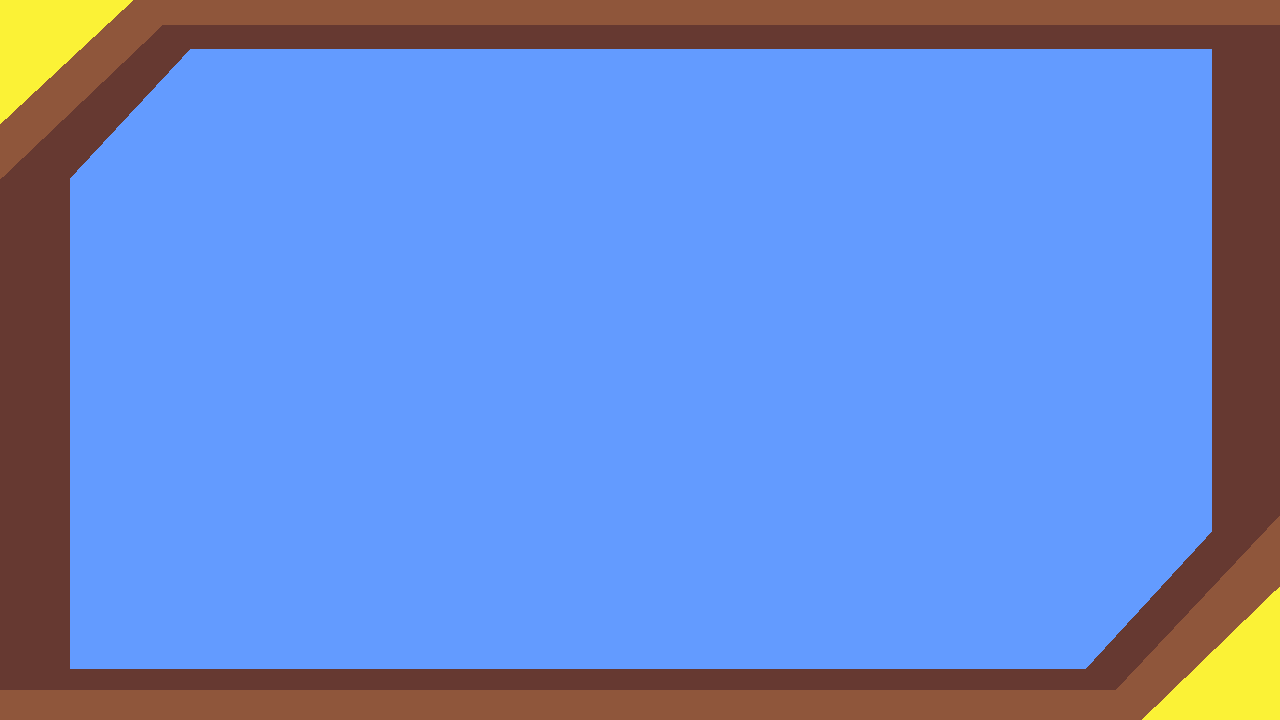
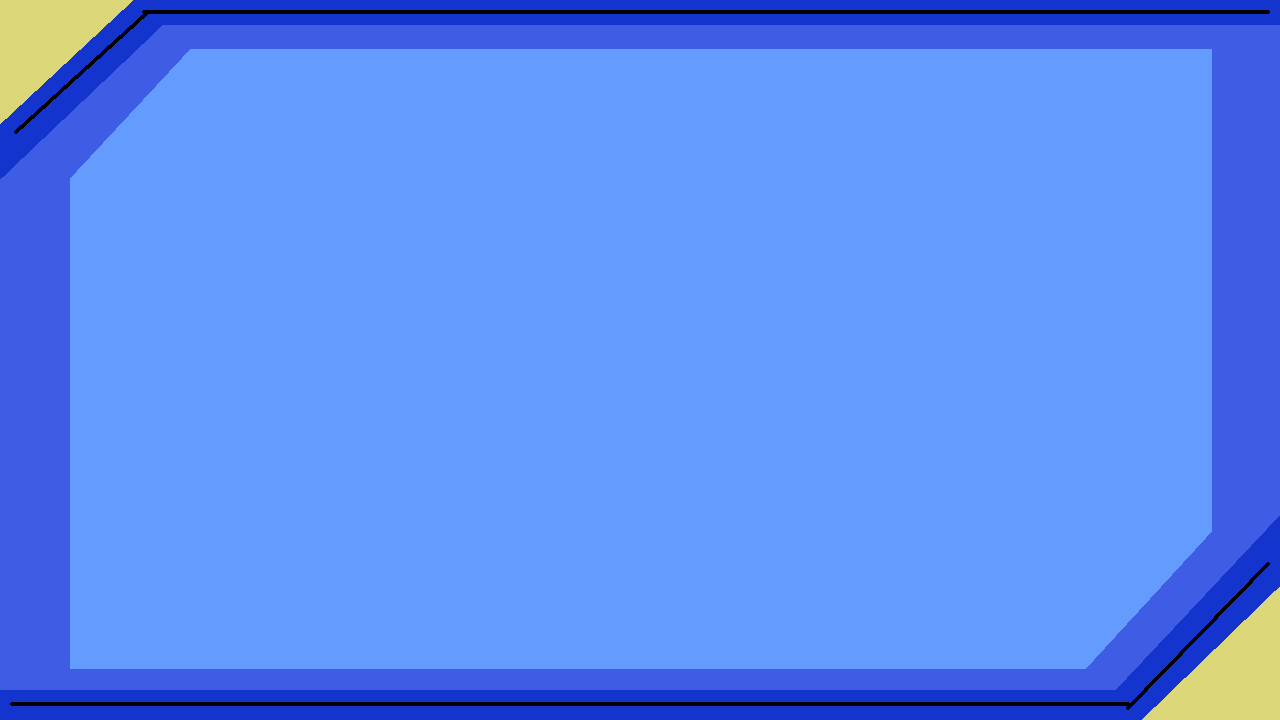
Resume: new screen with info for players Screen: new settings & menu screens

Changed region(s): [[0.0, 0.0, 1.0, 1.0]]

diff --git a/menu.py b/menu.py
@@ -3,10 +3,8 @@ import sys
 from main import start_game
 
 pygame.init()
-
 SCREEN = pygame.display.set_mode((1280, 720))
 pygame.display.set_caption("Menu")
-
 BG = pygame.image.load("data/Background.png")   # Add menu screen
 
 
@@ -51,30 +49,58 @@ def Levels():
     pass
 
 
-def Play():
-    start_game()
-
-
-def Setting():
+def Resume():
+    RM = pygame.image.load("data/Resume.png")
     while True:
-        OPTIONS_MOUSE_POS = pygame.mouse.get_pos()
-        SCREEN.fill("black")
-        OPTIONS_TEXT = get_font(45).render("This is the SETTINGS screen.", True, "White")
-        OPTIONS_RECT = OPTIONS_TEXT.get_rect(center=(640, 100))     # Text options
-        SCREEN.blit(OPTIONS_TEXT, OPTIONS_RECT)
-        OPTIONS_BACK = Button(image=None, pos=(640, 640),
-                              text_input="BACK", font=get_font(75), base_color="White", hovering_color="Green")
-
-        OPTIONS_BACK.changeColor(OPTIONS_MOUSE_POS)
-        OPTIONS_BACK.update(SCREEN)
+        SCREEN.blit(RM, (0, 0))
+        RESUME_MOUSE_POS = pygame.mouse.get_pos()
+        RESUME_TEXT = get_font(25).render("Information", True, "#ffe521")
+        RESUME_RECT = RESUME_TEXT.get_rect(center=(300, 110))
+        RESUME_BACK = Button(image=None, pos=(840, 640),
+                             text_input="BACK", font=get_font(75), base_color="White", hovering_color="Green")
+        RESUME_BACK.changeColor(RESUME_MOUSE_POS)
+        RESUME_BACK.update(SCREEN)
+        SCREEN.blit(RESUME_TEXT, RESUME_RECT)
         for event in pygame.event.get():
             if event.type == pygame.QUIT:
                 pygame.quit()
                 sys.exit()
             if event.type == pygame.MOUSEBUTTONDOWN:
-                if OPTIONS_BACK.checkForInput(OPTIONS_MOUSE_POS):
-                    Main_menu()
+                if RESUME_BACK.checkForInput(RESUME_MOUSE_POS):
+                    Setting()
+        pygame.display.update()
 
+
+def Play():
+    start_game()
+
+
+def Setting():
+    ST = pygame.image.load("data/Settings-screen.png")
+    while True:
+        SCREEN.blit(ST, (0, 0))
+        SETTINGS_MOUSE_POS = pygame.mouse.get_pos()
+        SETTINGS_TEXT = get_font(100).render("SETTINGS", True, "#ffe521")
+        SETTINGS_RECT = SETTINGS_TEXT.get_rect(center=(640, 110))     # Text settings
+        SCREEN.blit(SETTINGS_TEXT, SETTINGS_RECT)
+        RESUME_BUTTON = Button(image=pygame.image.load("data/Options Rect.png"), pos=(640, 250),
+                               text_input="RESUME", font=get_font(75), base_color="#d7fcd4", hovering_color="White")
+        SETTINGS_BACK = Button(image=None, pos=(640, 630),
+                               text_input="BACK", font=get_font(75), base_color="White", hovering_color="Green")
+        SETTINGS_BACK.changeColor(SETTINGS_MOUSE_POS)
+        SETTINGS_BACK.update(SCREEN)
+        for button in [RESUME_BUTTON]:
+            button.changeColor(SETTINGS_MOUSE_POS)
+            button.update(SCREEN)
+        for event in pygame.event.get():
+            if event.type == pygame.QUIT:
+                pygame.quit()
+                sys.exit()
+            if event.type == pygame.MOUSEBUTTONDOWN:
+                if SETTINGS_BACK.checkForInput(SETTINGS_MOUSE_POS):
+                    Main_menu()
+                if RESUME_BUTTON.checkForInput(SETTINGS_MOUSE_POS):
+                    Resume()
         pygame.display.update()
 
 
@@ -86,15 +112,14 @@ def Main_menu():
         MENU_RECT = MENU_TEXT.get_rect(center=(640, 120))
         PLAY_BUTTON = Button(image=pygame.image.load("data/Play Rec.png"), pos=(640, 250),
                              text_input="PLAY", font=get_font(75), base_color="#d7fcd4", hovering_color="White")
-        OPTIONS_BUTTON = Button(image=pygame.image.load("data/Options Rect.png"), pos=(640, 400),
-                                text_input="SETTING", font=get_font(75), base_color="#d7fcd4", hovering_color="White")
+        SETTINGS_BUTTON = Button(image=pygame.image.load("data/Options Rect.png"), pos=(640, 400),
+                                 text_input="SETTING", font=get_font(75), base_color="#d7fcd4", hovering_color="White")
         QUIT_BUTTON = Button(image=pygame.image.load("data/Quit Rect.png"), pos=(640, 550),
                              text_input="QUIT", font=get_font(75), base_color="#d7fcd4", hovering_color="White")
         SCREEN.blit(MENU_TEXT, MENU_RECT)
-        for button in [PLAY_BUTTON, OPTIONS_BUTTON, QUIT_BUTTON]:
+        for button in [PLAY_BUTTON, SETTINGS_BUTTON, QUIT_BUTTON]:
             button.changeColor(MENU_MOUSE_POS)
             button.update(SCREEN)
-
         for event in pygame.event.get():
             if event.type == pygame.QUIT:
                 pygame.quit()
@@ -103,12 +128,11 @@ def Main_menu():
                 if PLAY_BUTTON.checkForInput(MENU_MOUSE_POS):
                     Play()
                     sys.exit()
-                if OPTIONS_BUTTON.checkForInput(MENU_MOUSE_POS):
+                if SETTINGS_BUTTON.checkForInput(MENU_MOUSE_POS):
                     Setting()
                 if QUIT_BUTTON.checkForInput(MENU_MOUSE_POS):
                     pygame.quit()
                     sys.exit()
-
         pygame.display.update()
 
 
